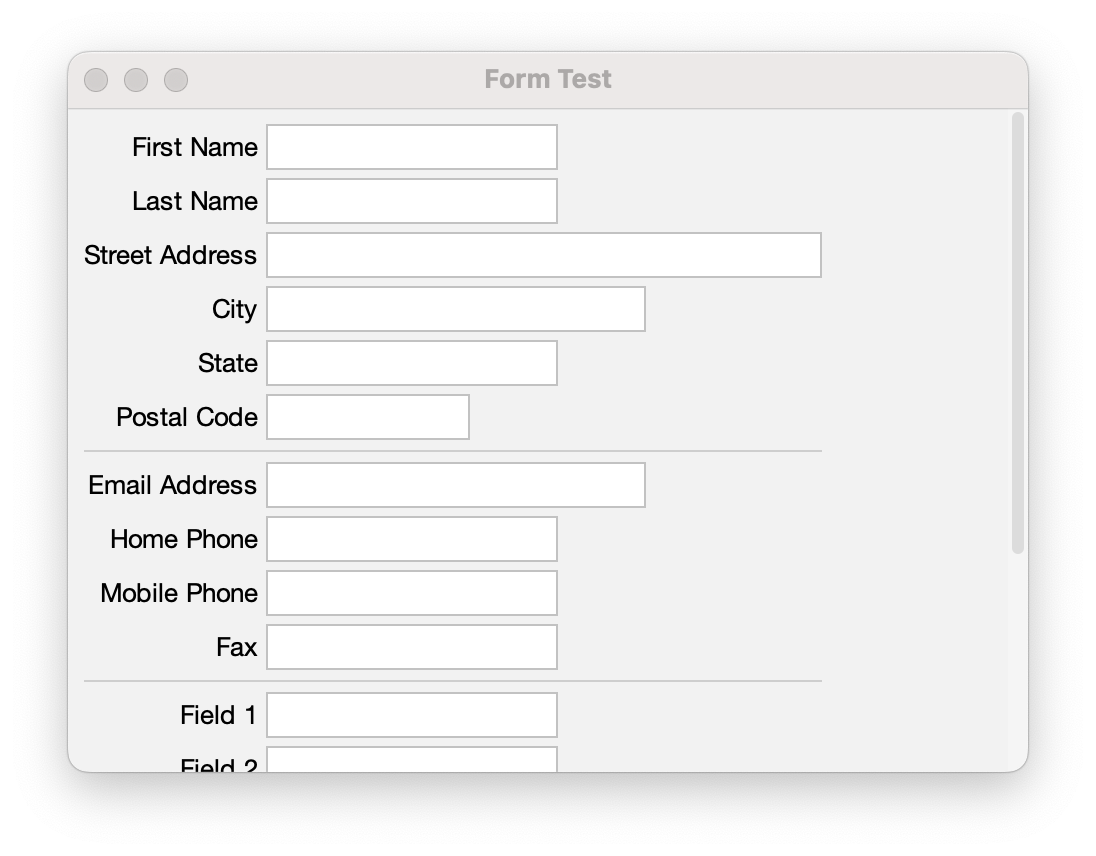
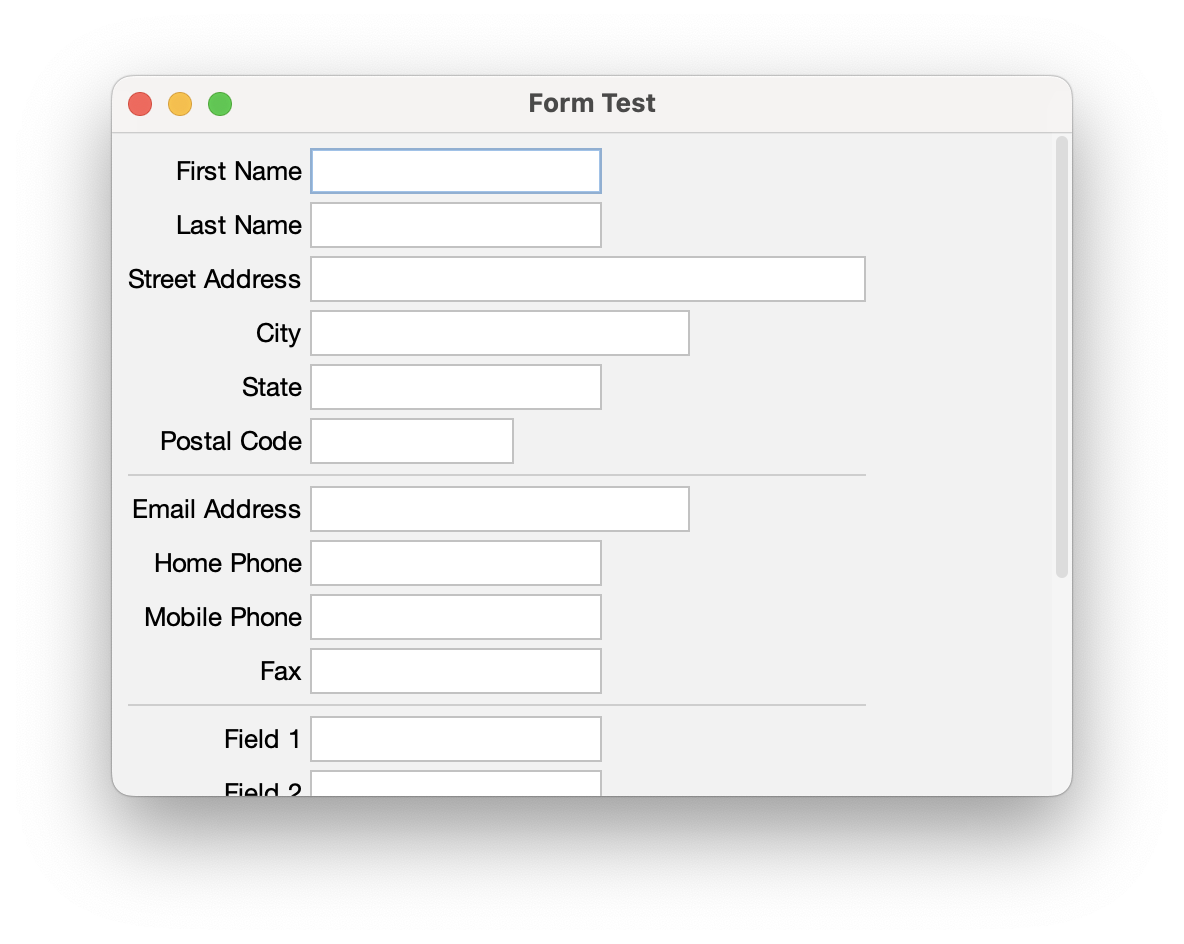
Update README.md.

Changed region(s): [[0.062, 0.0607, 0.9307, 0.9112]]

diff --git a/README.md b/README.md
@@ -71,7 +71,7 @@ Elements can be nested to create a component hierarchy. For example:
 </column-panel>
 ```
 
-<img src="README/task-executor.png" width="388px"/>
+<img src="README/task-executor.png" width="432px"/>
 
 ## Attributes
 XML attributes generally represent component properties. For example, this markup creates an instance of `TextPane` and sets its "text" property to "Hello, World!":
@@ -209,7 +209,7 @@ streetAddress = Street Address
 ...
 ```
 
-<img src="README/form.png" width="548px"/>
+<img src="README/form.png" width="592px"/>
 
 ## Cell Alignment
 When grid alignment is enabled in a `ColumnPanel`, the sub-components (or "cells") of every `RowPanel` in the column are vertically aligned in a grid, as in a spreadsheet or HTML table. The width of each sub-column is determined as the maximum preferred width of the cells in that column (i.e. the components having the same index in each row).
